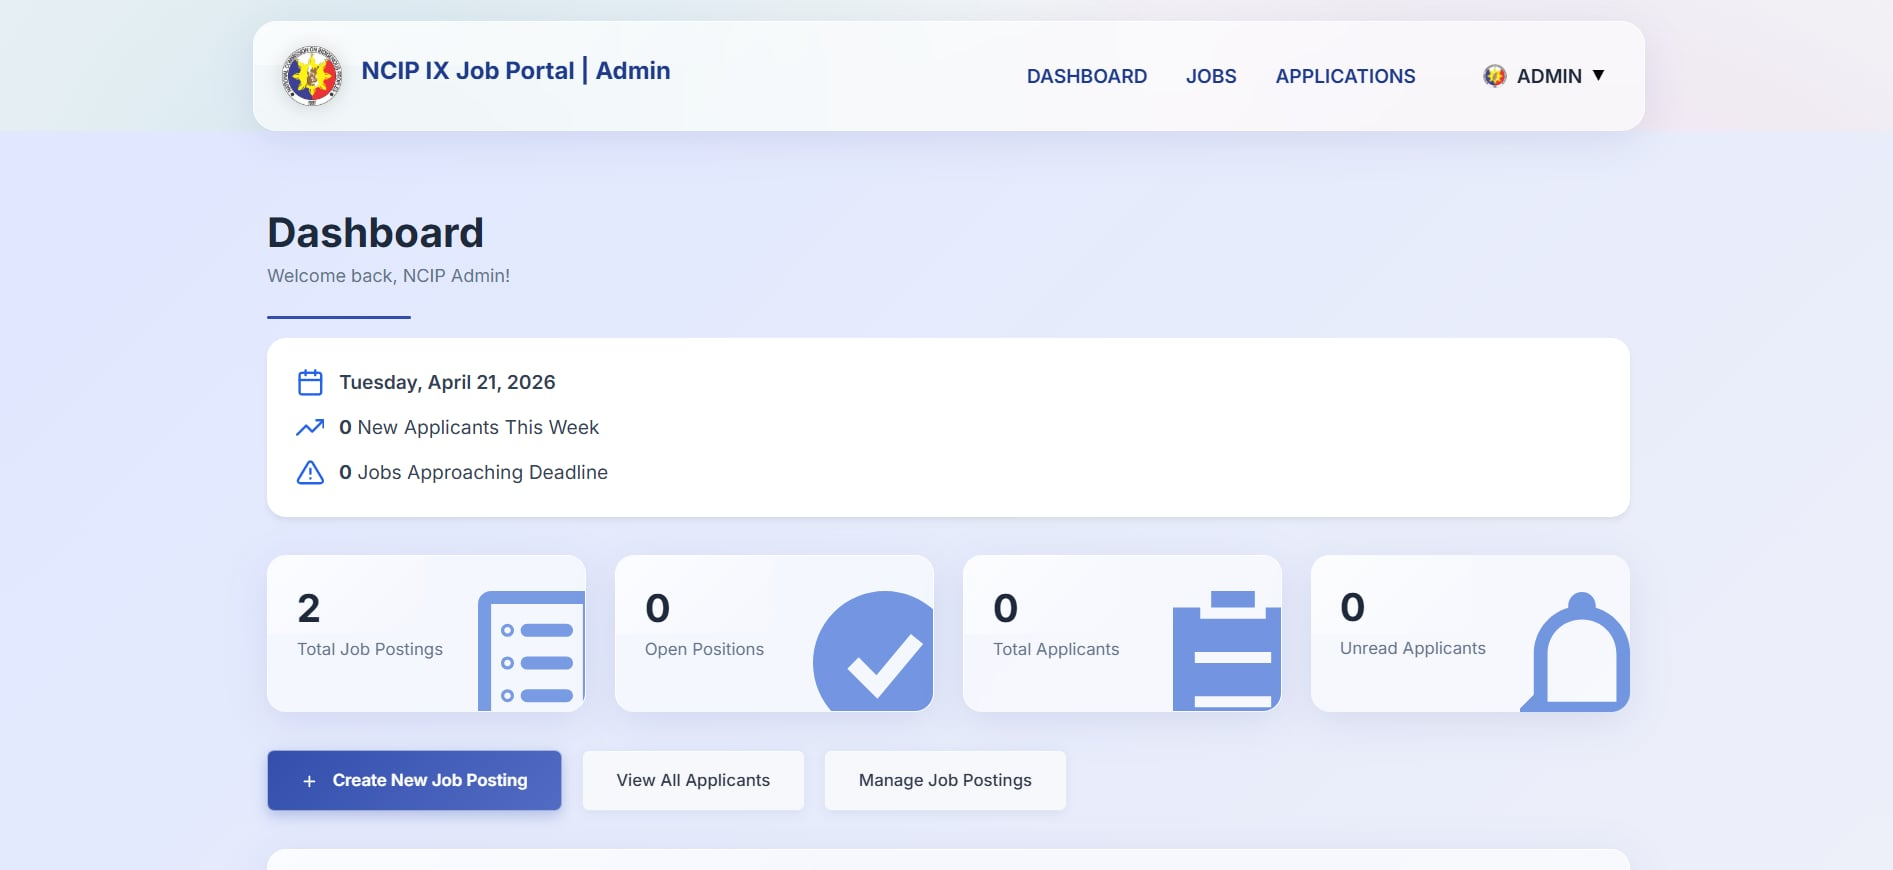
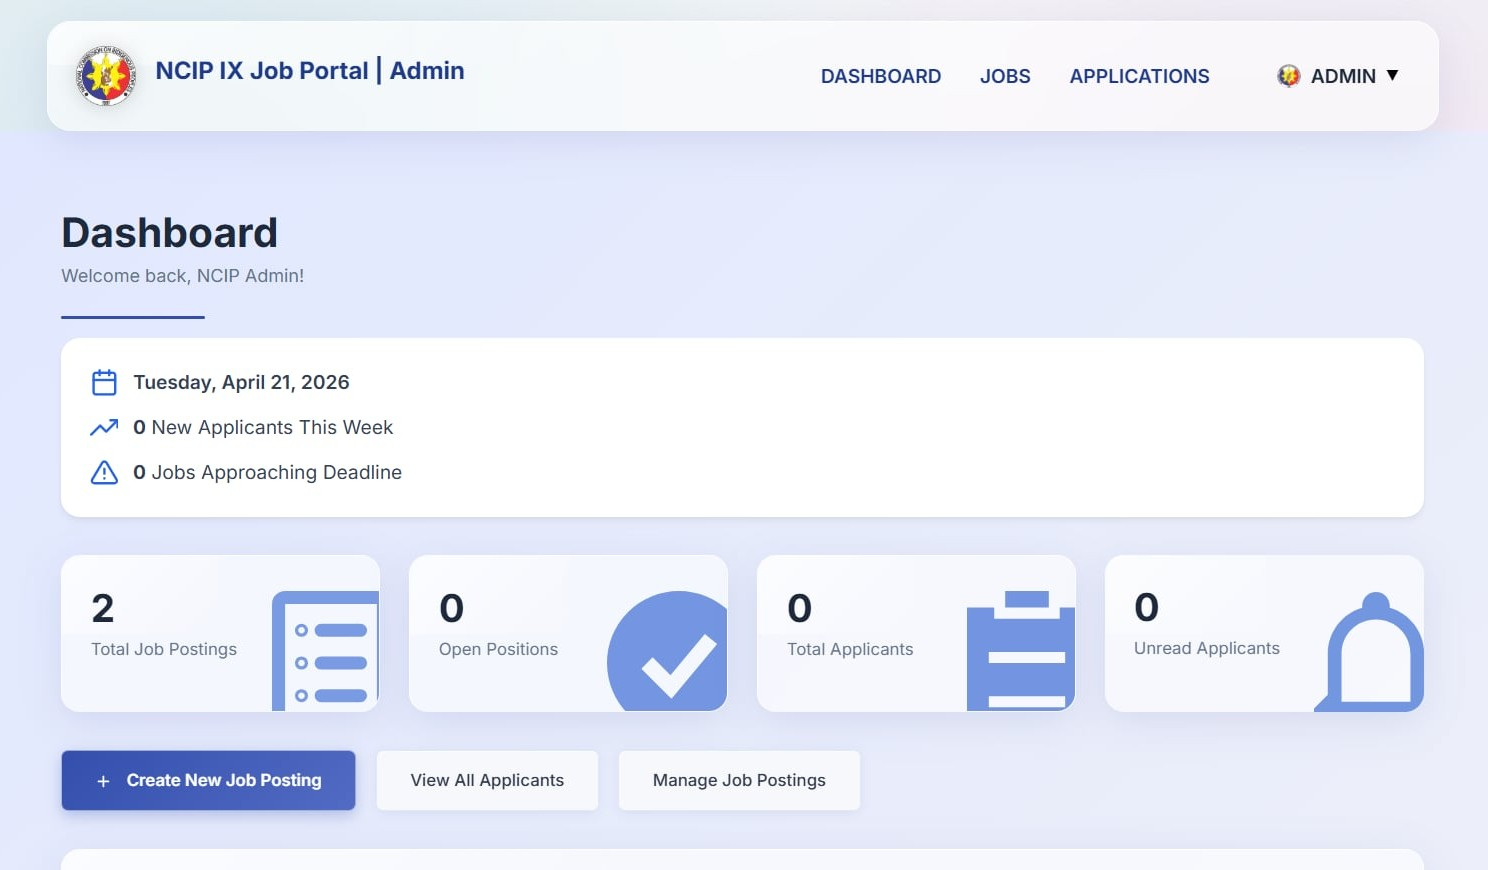
Fix mobile carousel layout and refine navbar toggler glow

diff --git a/about-styles.css b/about-styles.css
@@ -387,10 +387,10 @@
     }
 
     .carousel-content {
-        display: grid;
-        grid-template-columns: 1fr;
-        gap: 1.5rem;
-        padding: 2rem 1.5rem;
+        display: flex;
+        flex-direction: column;
+        gap: 1.2rem;
+        padding: 2rem 1.5rem 4.5rem; /* Increased bottom padding for indicators */
         min-height: auto;
     }
 
@@ -409,12 +409,14 @@
 
     .carousel-image {
         max-width: 100%;
-        height: 250px;
+        height: 180px; /* Reduced from 250px */
         order: 1;
     }
 
     .carousel-image img {
-        min-height: 250px;
+        min-height: 180px;
+        object-fit: contain; /* Better for screenshots on mobile */
+        background: rgba(0,0,0,0.2);
     }
 
     .carousel-arrow {
@@ -526,8 +528,8 @@
     }
 
     .carousel-content {
-        padding: 1.5rem 1rem;
-        gap: 1.25rem;
+        padding: 1.5rem 1rem 4rem; /* Increased bottom padding */
+        gap: 1rem;
         border-radius: 20px;
     }
 
@@ -546,11 +548,11 @@
     }
 
     .carousel-image {
-        height: 200px;
+        height: 160px; /* Further reduced */
     }
 
     .carousel-image img {
-        min-height: 200px;
+        min-height: 160px;
     }
 
     .carousel-arrow {

diff --git a/styles.css b/styles.css
@@ -241,16 +241,15 @@ body::before {
 }
 
 .navbar-toggler {
-    border: 2px solid rgba(255, 255, 255, 0.8);
+    border: 2px solid rgba(255, 255, 255, 0.6);
     padding: 0.5rem 0.75rem;
-    background: rgba(255, 255, 255, 0.3);
+    background: rgba(255, 255, 255, 0.2);
     backdrop-filter: blur(10px);
     -webkit-backdrop-filter: blur(10px);
     transition: all 0.3s ease;
     position: relative;
     top: 0px;
-    box-shadow: 0 0 15px rgba(224, 170, 255, 0.5);
-    transform: scale(1.05);
+    box-shadow: 0 4px 15px rgba(0, 0, 0, 0.2), 0 0 10px rgba(224, 170, 255, 0.3);
 }
 
 .navbar-toggler:hover {

diff --git a/about.html b/about.html
@@ -153,8 +153,8 @@
                             <div class="carousel-text">
                                 <h2 class="carousel-title">NCIP IX Job Application Portal</h2>
                                 <div class="carousel-description" style="animation: fade-in-delay 0.6s ease-out 0.2s forwards;">
-                                    <p style="margin-bottom: 1rem;">During my On-the-Job Training, one of the systems we developed is the NCIP Job Application System, a web-based platform designed to improve the recruitment process of NCIP Region IX.</p>
-                                    <p style="margin-bottom: 1rem;">This project focuses on transforming the traditional manual hiring process into a more organized, efficient, and digital system. applicants can easily submit their requirements online, and administrators can review and manage applications more effectively.</p>
+                                    <p style="margin-bottom: 0.8rem;">We developed a web-based platform to digitalize NCIP Region IX’s hiring process—transforming manual paper-based workflows into a centralized, efficient recruitment system.</p>
+                                    <p style="margin-bottom: 1.2rem;">The portal features secure document handling and real-time tracking, ensuring data privacy while providing a user-friendly interface for both applicants and administrators.</p>
                                     <a href="https://ncip-ix-job-portal.vercel.app/" target="_blank" class="carousel-btn">
                                         Visit Project <i class="fas fa-external-link-alt" style="margin-left: 8px; font-size: 0.9rem;"></i>
                                     </a>